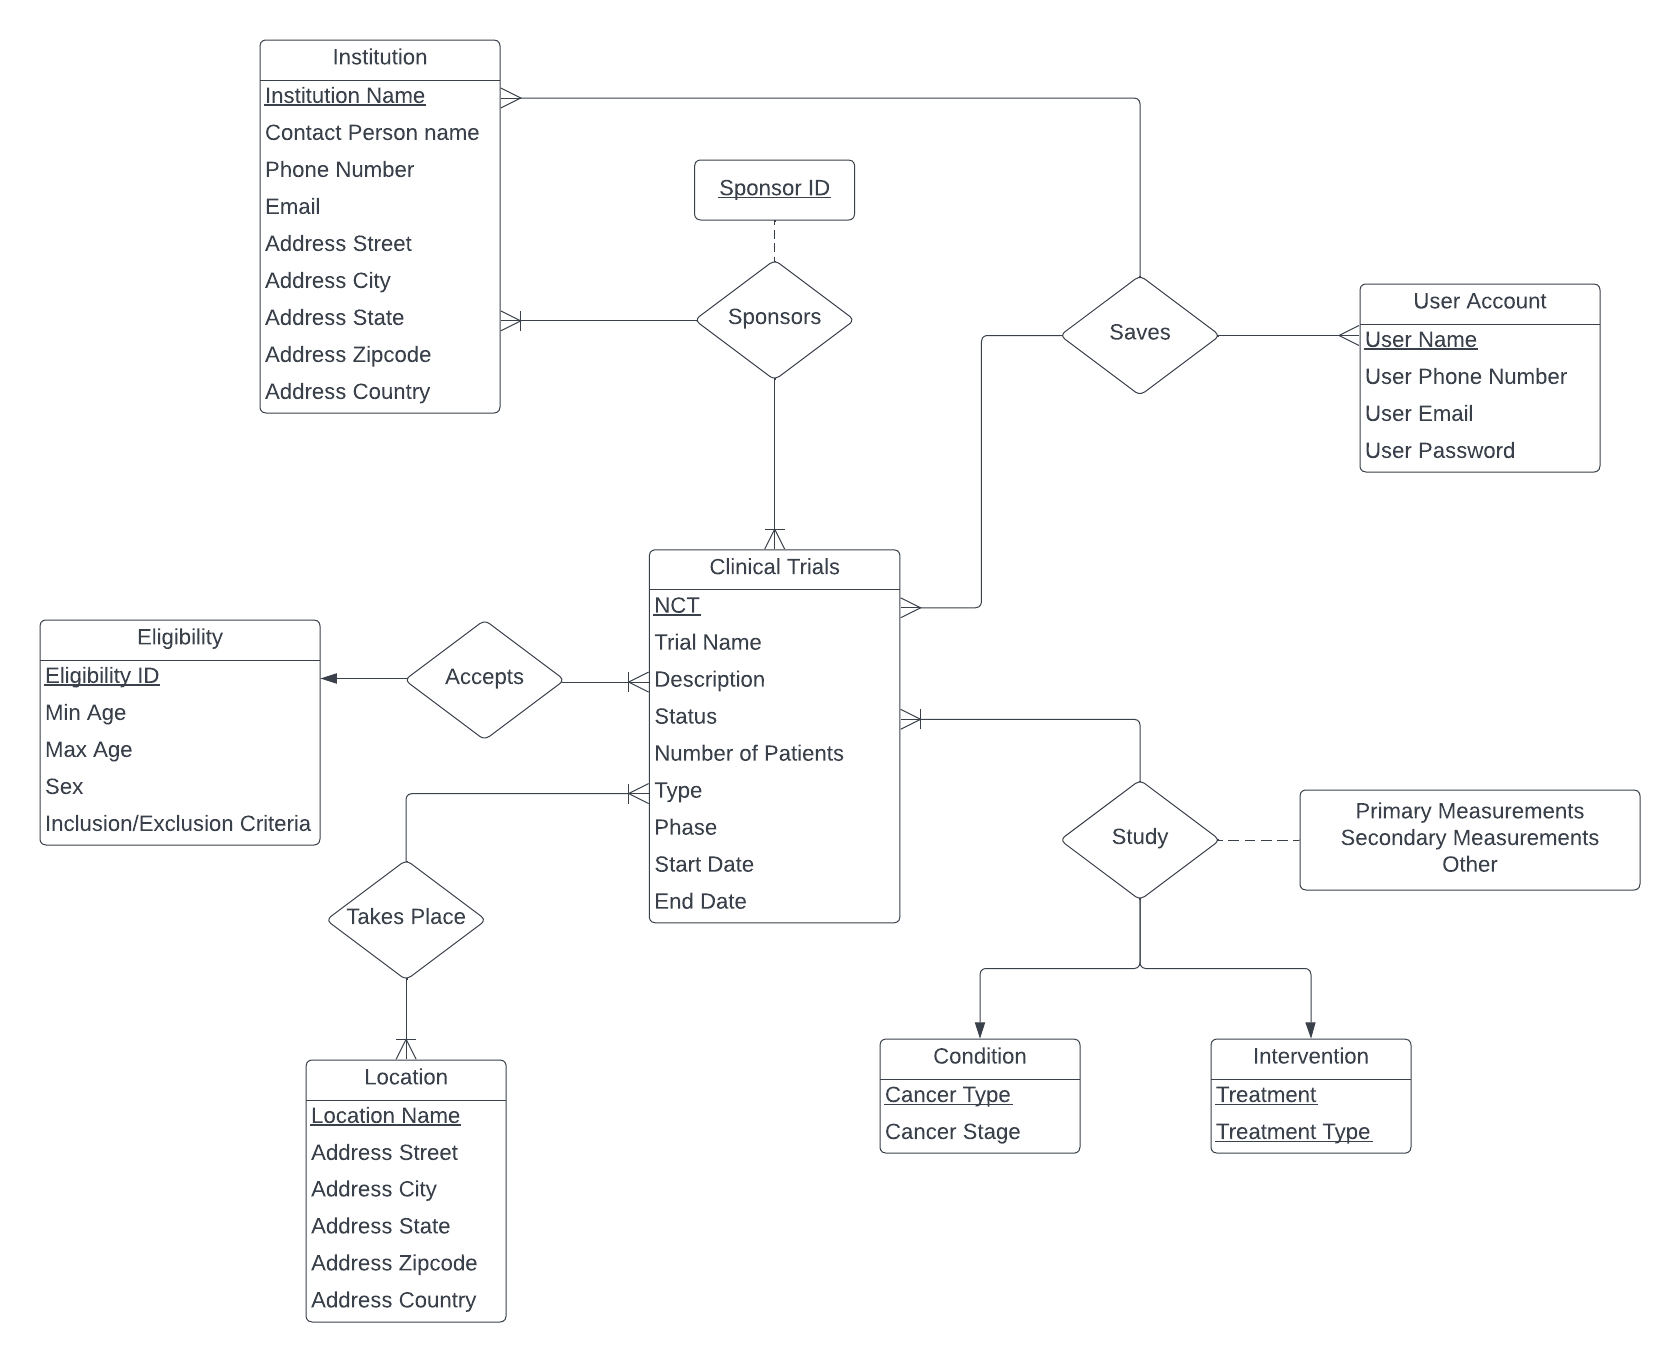
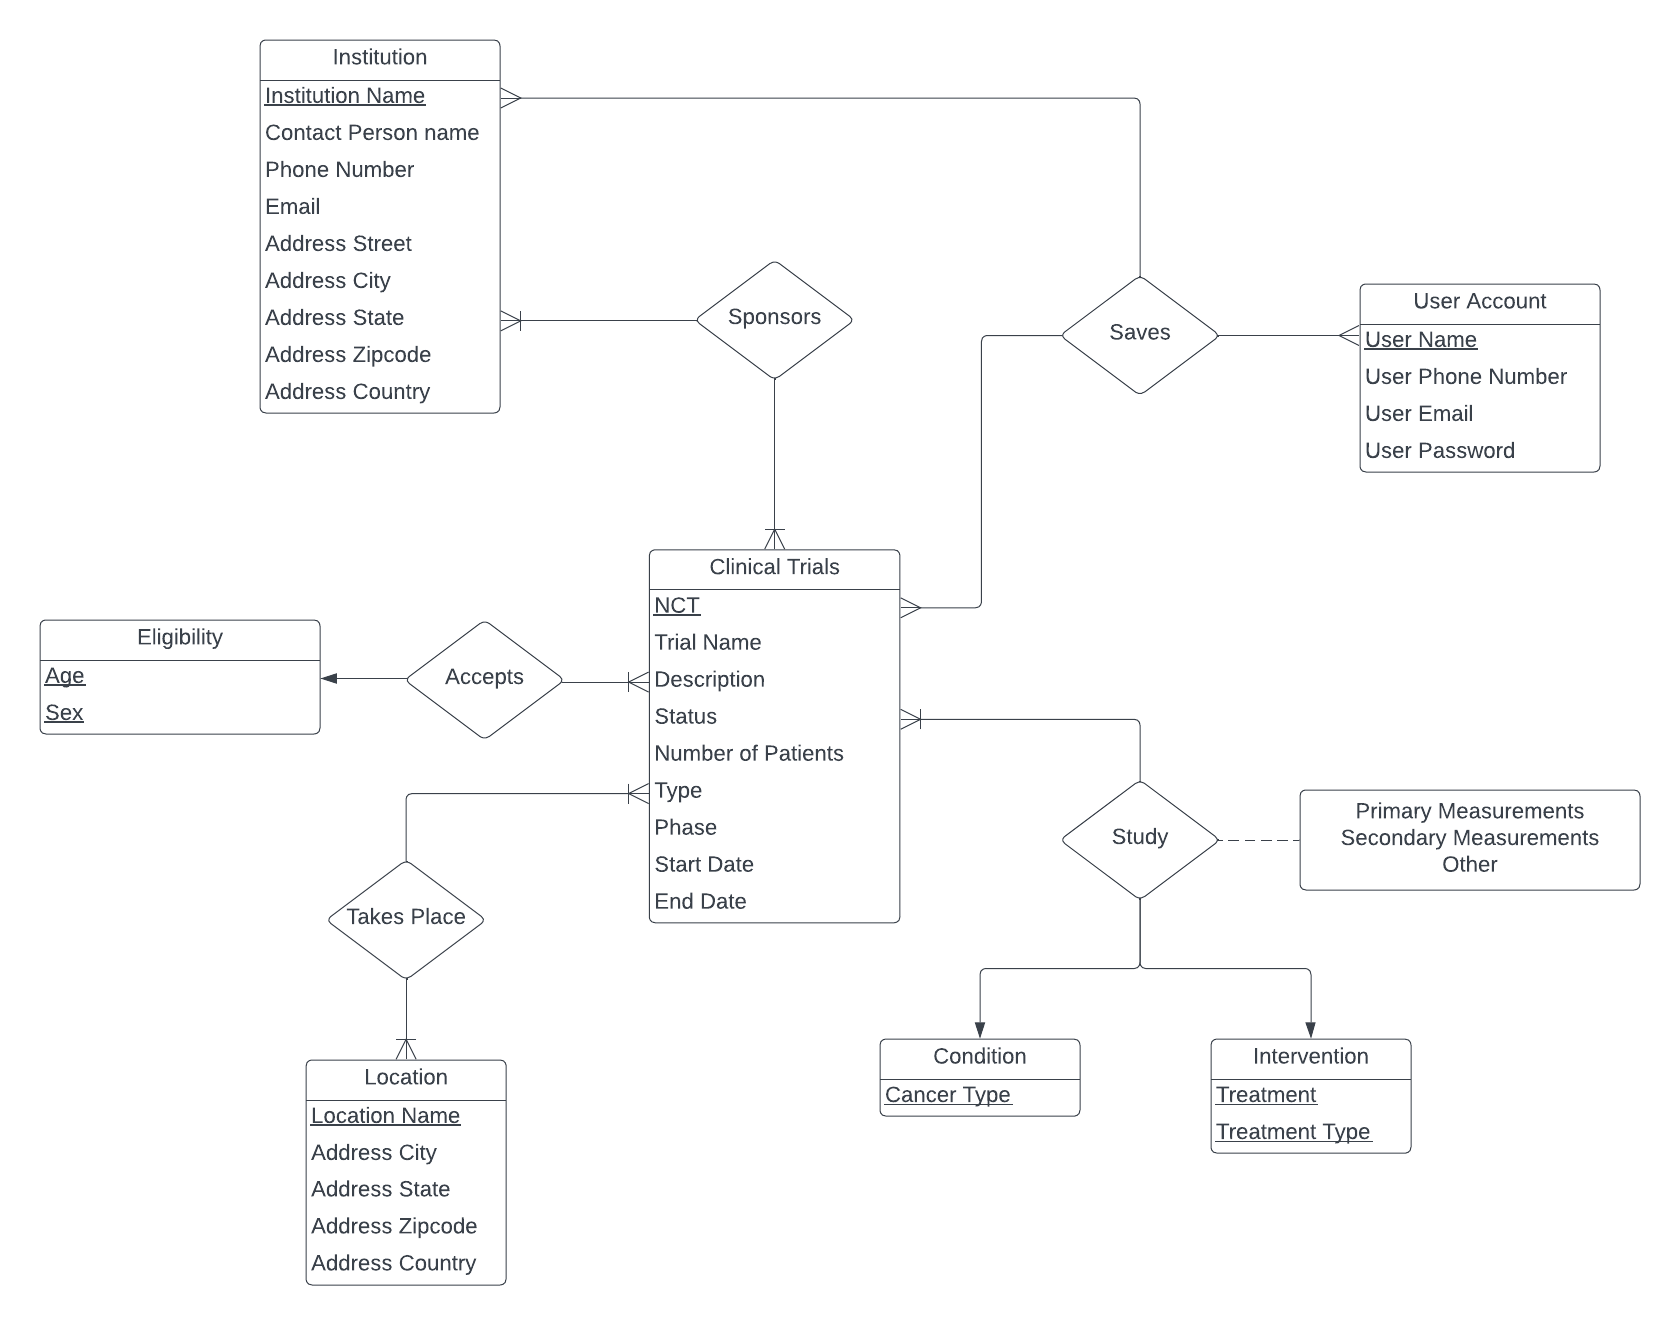
Update schema.md data types and primary keys, update er-diagram.png to reflect changes

diff --git a/documentation/schema.md b/documentation/schema.md
@@ -4,23 +4,24 @@ PostgreSQL table declarations for database schema.
 ```sql
 CREATE TABLE clinical_trials (
 	NCT numeric(8, 0),
-	trial_name varchar(120) NOT NULL,
-	description varchar(500),
-	status varchar(30) CHECK (status in ('not yet recruiting', 'actively recruiting', 'completed')) NOT NULL,
+	trial_name text NOT NULL,
+	description text,
+	status varchar(30) CHECK (status in ('active not recruiting', 'enrolling by invitation', 'not yet recruiting','recruiting', 'terminated', 'unknown', 'withdrawn', 'completed')) NOT NULL,
 	number_of_patients int CHECK (number_of_patients >= 0) NOT NULL,
 	type varchar(20) CHECK (type in ('interventional', 'observational')) NOT NULL,
-	phase varchar(20) CHECK (phase in ('Early Phase', 'Phase 1', 'Phase 2', 'Phase 3', 'Phase 4')),
+	phase text[] CHECK(phase <@ ARRAY['n/a', 'early phase 1', 'phase 1', 'phase 2', 'phase 3', 'phase 4']),
 	start_date date NOT NULL,
 	end_date date NOT NULL,	
 	CHECK (end_date > start_date),
 	PRIMARY KEY (NCT),
-	eligibility_id varchar(20),
-	FOREIGN KEY (eligibility_id) REFERENCES eligibility(eligibility_id) ON DELETE RESTRICT
+	age text[],
+	sex varchar(6),
+	FOREIGN KEY (age, sex) REFERENCES eligibility(age, sex) ON DELETE RESTRICT
 );
 ```
 ```sql
 CREATE TABLE institution (
-	institution_name varchar(100),
+	institution_name text,
 	contact_person_name varchar(30),
 	phone_number varchar(20) NOT NULL,
 	email varchar(50) NOT NULL,
@@ -35,7 +36,7 @@ CREATE TABLE institution (
 ```sql
 CREATE TABLE sponsors (
 	NCT numeric(8, 0),
-	institution_name varchar(100),
+	institution_name text,
 	PRIMARY KEY (NCT, institution_name),
 	FOREIGN KEY (NCT) REFERENCES clinical_trials(NCT) ON DELETE SET NULL,
 	FOREIGN KEY (institution_name) REFERENCES institution(institution_name) ON DELETE SET NULL
@@ -43,29 +44,24 @@ CREATE TABLE sponsors (
 ```
 ```sql
 CREATE TABLE eligibility (
-	eligibility_id varchar(20),
-	min_age int CHECK (min_age >= 0) NOT NULL,
-	max_age int NOT NULL,
-	CHECK (max_age > min_age),
-	sex varchar(6) CHECK (sex in ('male', 'female')), 
-	inclusion_exclusion_criteria varchar(500),
-	PRIMARY KEY (eligibility_id)
+	age text[] CHECK(age <@ ARRAY['child', 'adult', 'older adult']),
+	sex varchar(6) CHECK (sex in ('male', 'female', 'all')),
+	PRIMARY KEY (age, sex)
 );
 ```
 ```sql
 CREATE TABLE location (
-	location_name varchar(100) NOT NULL,
-	address_street varchar(50) NOT NULL,
+	location_name text NOT NULL,
 	address_city varchar(30) NOT NULL,
 	address_state varchar(30),
-	address_zipcode varchar(10),
+	address_zipcode varchar(30),
 	address_country varchar(30) NOT NULL,
 	PRIMARY KEY (location_name)
 );
 ```
 ```sql
 CREATE TABLE takes_place (
-	location_name varchar(100),
+	location_name text,
 	NCT numeric(8, 0),
 	PRIMARY KEY (NCT, location_name),
 	FOREIGN KEY (NCT) REFERENCES clinical_trials(NCT) ON DELETE RESTRICT,
@@ -74,26 +70,25 @@ CREATE TABLE takes_place (
 ```
 ```sql
 CREATE TABLE condition (
-	cancer_type varchar(50),
-	cancer_stage varchar(3) CHECK (cancer_stage in ('0', 'I', 'II', 'III', 'IV')),
+	cancer_type text,
 	PRIMARY KEY (cancer_type)
 );
 ```
 ```sql
 CREATE TABLE intervention (
-	treatment varchar(50),
+	treatment varchar(200),
 	treatment_type varchar(50),
 	PRIMARY KEY (treatment, treatment_type)
 );
 ```
 ```sql
 CREATE TABLE study (
-	primary_measurements varchar(500),
-	secondary_measurements varchar(500),
-	other varchar(500),
+	primary_measurements text,
+	secondary_measurements text,
+	other text,
 	NCT numeric(8, 0),
-	cancer_type varchar(50),
-	treatment varchar(50),
+	cancer_type text,
+	treatment varchar(200),
 	treatment_type varchar(50),
 	PRIMARY KEY (NCT, cancer_type, treatment, treatment_type),
 	FOREIGN KEY (NCT) REFERENCES clinical_trials(NCT) ON DELETE CASCADE,
@@ -114,7 +109,7 @@ CREATE TABLE user_account (
 CREATE TABLE saves (
 	user_name varchar(30),
 	NCT numeric(8, 0),
-	institution_name varchar(100),
+	institution_name text,
 	PRIMARY KEY (user_name, NCT, institution_name),
 	FOREIGN KEY (user_name) REFERENCES user_account(user_name) ON DELETE CASCADE,
 	FOREIGN KEY (NCT) REFERENCES clinical_trials(NCT) ON DELETE CASCADE,
